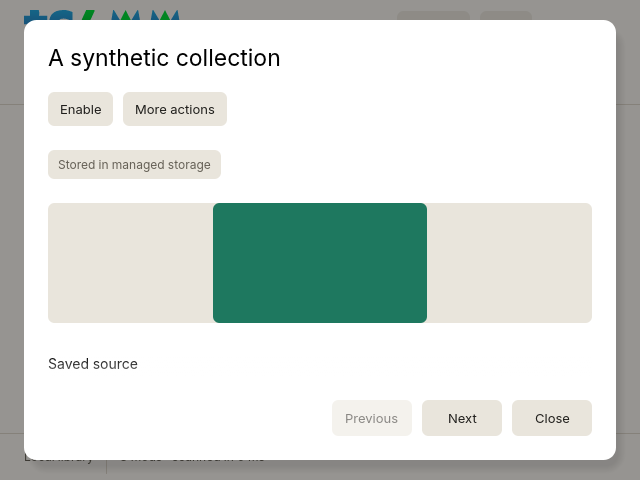
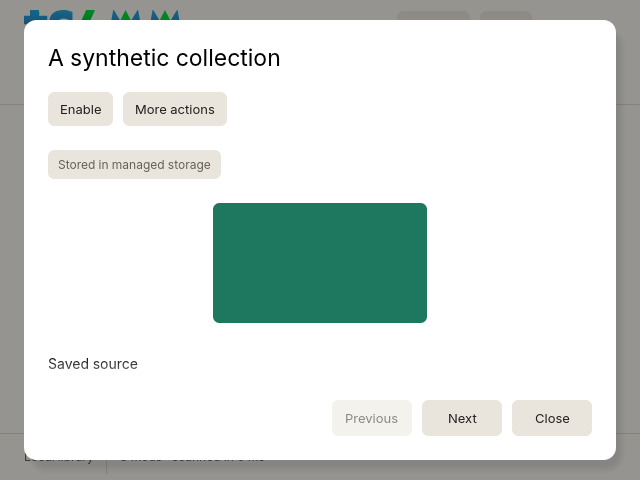
fix: remove empty gutters from detail previews

Changed region(s): [[0.6562, 0.4062, 0.9375, 0.6875], [0.0625, 0.4062, 0.3438, 0.6875]]

diff --git a/native/examples/verify_popups.rs b/native/examples/verify_popups.rs
@@ -36,7 +36,7 @@ mod controls {
             7 => controls.dialog = Some(Dialog::SettingsImport(Settings::default(), false)),
             8 => controls.candidates = Some((identity, vec![])),
             9 => controls.trash_entries = Some((identity, vec![])),
-            10..=16 | 20 => {},
+            10..=16 | 20..=22 => {},
             17..=18 => {
                 let mut theme = crate::settings::CustomTheme::base();
                 theme.name = "Contrast check".into();
@@ -59,7 +59,7 @@ mod controls {
     }
 }
 
-const CASES: [(&str, bool, [f32; 2]); 21] = [
+const CASES: [(&str, bool, [f32; 2]); 23] = [
     ("import-zip-light", false, [1200.0, 800.0]),
     ("import-zip-dark", true, [1200.0, 800.0]),
     ("import-zip-small", false, [640.0, 480.0]),
@@ -81,6 +81,8 @@ const CASES: [(&str, bool, [f32; 2]); 21] = [
     ("theme-contrast-small-dark", true, [640.0, 480.0]),
     ("settings-draft-light", false, [1200.0, 800.0]),
     ("compact-no-previews", false, [680.0, 760.0]),
+    ("mod-details-square-light", false, [1200.0, 800.0]),
+    ("mod-details-square-dark", true, [680.0, 760.0]),
 ];
 
 struct Capture {
@@ -120,7 +122,8 @@ impl Capture {
         );
         self.view = ui::View::default();
         self.view.scan_ms = Some(0.0);
-        self.opened = self.case >= 17;
+        self.opened = (17..=20).contains(&self.case);
+        if self.case >= 21 { self.catalog.mods[0].preview = Some(self.source.with_file_name("square-preview.png").display().to_string()); }
         if self.case == 20 { for entry in &mut self.catalog.mods { entry.preview = None; } }
         self.catalog.mods[0].name = if self.case == 14 {
             "Synthetic collection with a very long name, release date, and additional pack details"
@@ -142,7 +145,7 @@ impl eframe::App for Capture {
             self.stable_frames = 0;
             self.staged = Instant::now();
         }
-        if (10..=14).contains(&self.case)
+        if ((10..=14).contains(&self.case) || (21..=22).contains(&self.case))
             && !self.opened
             && self.stable_frames >= 2
             && let Some(row) = self.view.stats.first_row
@@ -189,7 +192,7 @@ impl eframe::App for Capture {
                 .iter()
                 .flat_map(|pixel| pixel.to_array())
                 .collect::<Vec<_>>();
-            if (10..=14).contains(&self.case) {
+            if (10..=14).contains(&self.case) || (21..=22).contains(&self.case) {
                 let preview_pixels = image.pixels.iter().filter(|pixel| pixel.to_array() == [30, 120, 95, 255]).count();
                 assert!(preview_pixels >= 15_000, "details preview must remain readable, including in a short window");
             }
@@ -220,7 +223,7 @@ impl eframe::App for Capture {
                 && !ctx.has_pending_images()
                 && (self.case < 10 || self.opened)
             {
-                if (10..=14).contains(&self.case) {
+                if (10..=14).contains(&self.case) || (21..=22).contains(&self.case) {
                     let close = self.view.stats.detail_close.expect("details must actually open before capture");
                     assert!(ctx.content_rect().contains_rect(close));
                 }
@@ -249,6 +252,7 @@ fn main() -> Result<(), Box<dyn std::error::Error>> {
     let source = fixture.path().join("Downloads").join("Synthetic very long archive name with a release date and extra collection details (461347).zip");
     std::fs::create_dir_all(source.parent().unwrap())?;
     std::fs::write(&source, b"synthetic capture fixture, never imported")?;
+    image::RgbaImage::from_pixel(320, 320, image::Rgba([30, 120, 95, 255])).save(source.with_file_name("square-preview.png"))?;
     std::fs::create_dir_all(source.with_extension(""))?;
     let source_check = source.clone();
     let mut catalog = catalog::Catalog::default();

diff --git a/native/src/ui.rs b/native/src/ui.rs
@@ -1110,9 +1110,12 @@ impl View {
         rect: egui::Rect,
         thumbnail: bool,
     ) {
-        ui.painter()
-            .rect_filled(rect, 6.0, ui.visuals().widgets.inactive.weak_bg_fill);
-        match self.previews.load(ui.ctx(), preview, root) {
+        let state = self.previews.load(ui.ctx(), preview, root);
+        if thumbnail || !matches!(state, crate::preview::State::Ready(_)) {
+            ui.painter()
+                .rect_filled(rect, 6.0, ui.visuals().widgets.inactive.weak_bg_fill);
+        }
+        match state {
             crate::preview::State::Ready(texture) => {
                 let image = egui::Image::new(texture).corner_radius(6);
                 if thumbnail {
@@ -1372,6 +1375,45 @@ mod tests {
         assert!(view.stats.files > 0 && view.stats.files < 40);
         render(&ctx, &mut view, &mut catalog, vec![], 680.0);
         assert!(view.stats.rows < 30);
+    }
+
+    #[test]
+    fn detail_photos_keep_their_proportions_without_a_full_width_tray() {
+        let temp = tempfile::tempdir().unwrap();
+        for (width, height) in [(80, 80), (40, 80), (160, 80)] {
+            let path = temp.path().join(format!("{width}x{height}.png"));
+            image::RgbaImage::from_pixel(width, height, image::Rgba([10, 100, 80, 255]))
+                .save(&path).unwrap();
+            let ctx = egui::Context::default();
+            setup(&ctx);
+            let mut view = View::default();
+            let deadline = std::time::Instant::now() + std::time::Duration::from_secs(5);
+            let texture = loop {
+                if let crate::preview::State::Ready(texture) = view.previews.load(&ctx, path.to_str(), None) {
+                    break texture;
+                }
+                assert!(std::time::Instant::now() < deadline, "photo did not load");
+                std::thread::sleep(std::time::Duration::from_millis(5));
+            };
+            for (preview, thumbnail) in [(path.to_str(), false), (path.to_str(), true), (None, false)] {
+                let mut rect = egui::Rect::NOTHING;
+                let mut output = ctx.run_ui(egui::RawInput::default(), |ui| {
+                    rect = ui.allocate_exact_size(egui::vec2(600.0, 180.0), egui::Sense::hover()).0;
+                    view.paint_preview(ui, preview, None, rect, thumbnail);
+                });
+                output.textures_delta.clear();
+                let has_tray = output.shapes.iter().any(|shape| matches!(&shape.shape,
+                    egui::epaint::Shape::Rect(background) if background.rect == rect && background.fill != egui::Color32::TRANSPARENT));
+                assert_eq!(has_tray, thumbnail || preview.is_none(), "loaded detail photos must not paint empty side gutters");
+                if preview.is_some() && !thumbnail {
+                    let photo = output.shapes.iter().find(|shape| shape.shape.texture_id() == texture.id).unwrap();
+                    let bounds = photo.shape.visual_bounding_rect();
+                    assert!((bounds.width() / bounds.height() - width as f32 / height as f32).abs() < 0.01);
+                    assert!(bounds.center().distance(rect.center()) < 0.1);
+                    assert!(rect.contains_rect(bounds));
+                }
+            }
+        }
     }
 
     #[test]

diff --git a/docs/native-design.md b/docs/native-design.md
@@ -119,7 +119,7 @@ Cards use 12-point corners. Search uses 8-point corners. Buttons, list highlight
 
 ## Components
 
-- Photo cards show the real name, saved author when present, file count and Installed or Stored state. Without a saved author they show Managed collection or External collection. Missing and broken previews show No Preview; pending previews show a spinner. Card cover crops account for both source and destination proportions. Details images use contain sizing.
+- Photo cards show the real name, saved author when present, file count and Installed or Stored state. Without a saved author they show Managed collection or External collection. Missing and broken previews show No Preview; pending previews show a spinner. Card cover crops account for both source and destination proportions. Details images use contain sizing, centered directly on the popup surface without a full-width background strip.
 - Search is a 40-point field with an 18-point icon. It filters display names and filenames as text changes. All, Installed and Stored filters intersect the current search. Rail counts describe the full catalog; the library heading count describes the visible collection. Ctrl+F focuses search and dismisses open details while retaining selection. Filtering does not enable or disable files.
 - The visibly labeled Cards/List switch changes presentation while retaining search and selected identity. Standard native hover and focus remain visible. Selection opens the same details popup at every width. Previous/Next and Alt+Left/Right follow the filtered order without returning to the library. Card and row labels leave pointer activation to their parent so clicking text also opens details.
 - Import folder is the primary library-toolbar action, beside Import ZIP and Restore from trash. Settings is a selectable header route. The bottom contains status, notices, errors and disclosed Activity history. Help in the header (F1) opens task guidance and keyboard shortcuts in a centered popup.

diff --git a/docs/native-ui-polish.md b/docs/native-ui-polish.md
@@ -19,7 +19,7 @@ All eight repository-required checks passed:
 | Check | Evidence |
 | --- | --- |
 | Core Rust tests | 120 unit tests and 36 integration tests passed. Live provider tests remain opt-in. |
-| Native Rust tests | 55 unit tests, 10 management tests and 13 navigation tests passed. |
+| Native Rust tests | 56 unit tests, 10 management tests and 13 navigation tests passed. |
 | Clippy | All native targets passed with warnings denied. |
 | Release build | Built `native/target/release/ts4-mod-manager-native` with the locked dependencies. |
 | Python tests | All 10 tests passed. |
@@ -28,6 +28,8 @@ All eight repository-required checks passed:
 | Package verifier | Packaged executable, desktop assets, licenses, catalog inspection and management workflows passed. |
 
 Visual verification inspected 32 native captures together, followed by one confirmation round: 11 library/settings/custom-theme views and 21 popup, recovery and compact-library views. Captures include light/dark, narrow, long-content and 640×480 cases. Details capture checks require an actual open popup, visible Close and at least 15,000 preview pixels. No capture approved an operation or saved settings.
+
+A follow-up preview refinement removes the full-width colored strip behind loaded details images. Square, portrait and landscape images retain their proportions and remain centered; thumbnails and missing-image placeholders keep their backgrounds. The regression test first failed on the empty side gutters, then passed after the fix. All eight checks were rerun. The popup harness captured 23 views, adding square-image cases in light and dark; six affected detail layouts were inspected together, including 640×480 and long titles. See the [square preview capture](images/mod-details-square.png).
 
 Run the capture tools from a graphical desktop:
 
